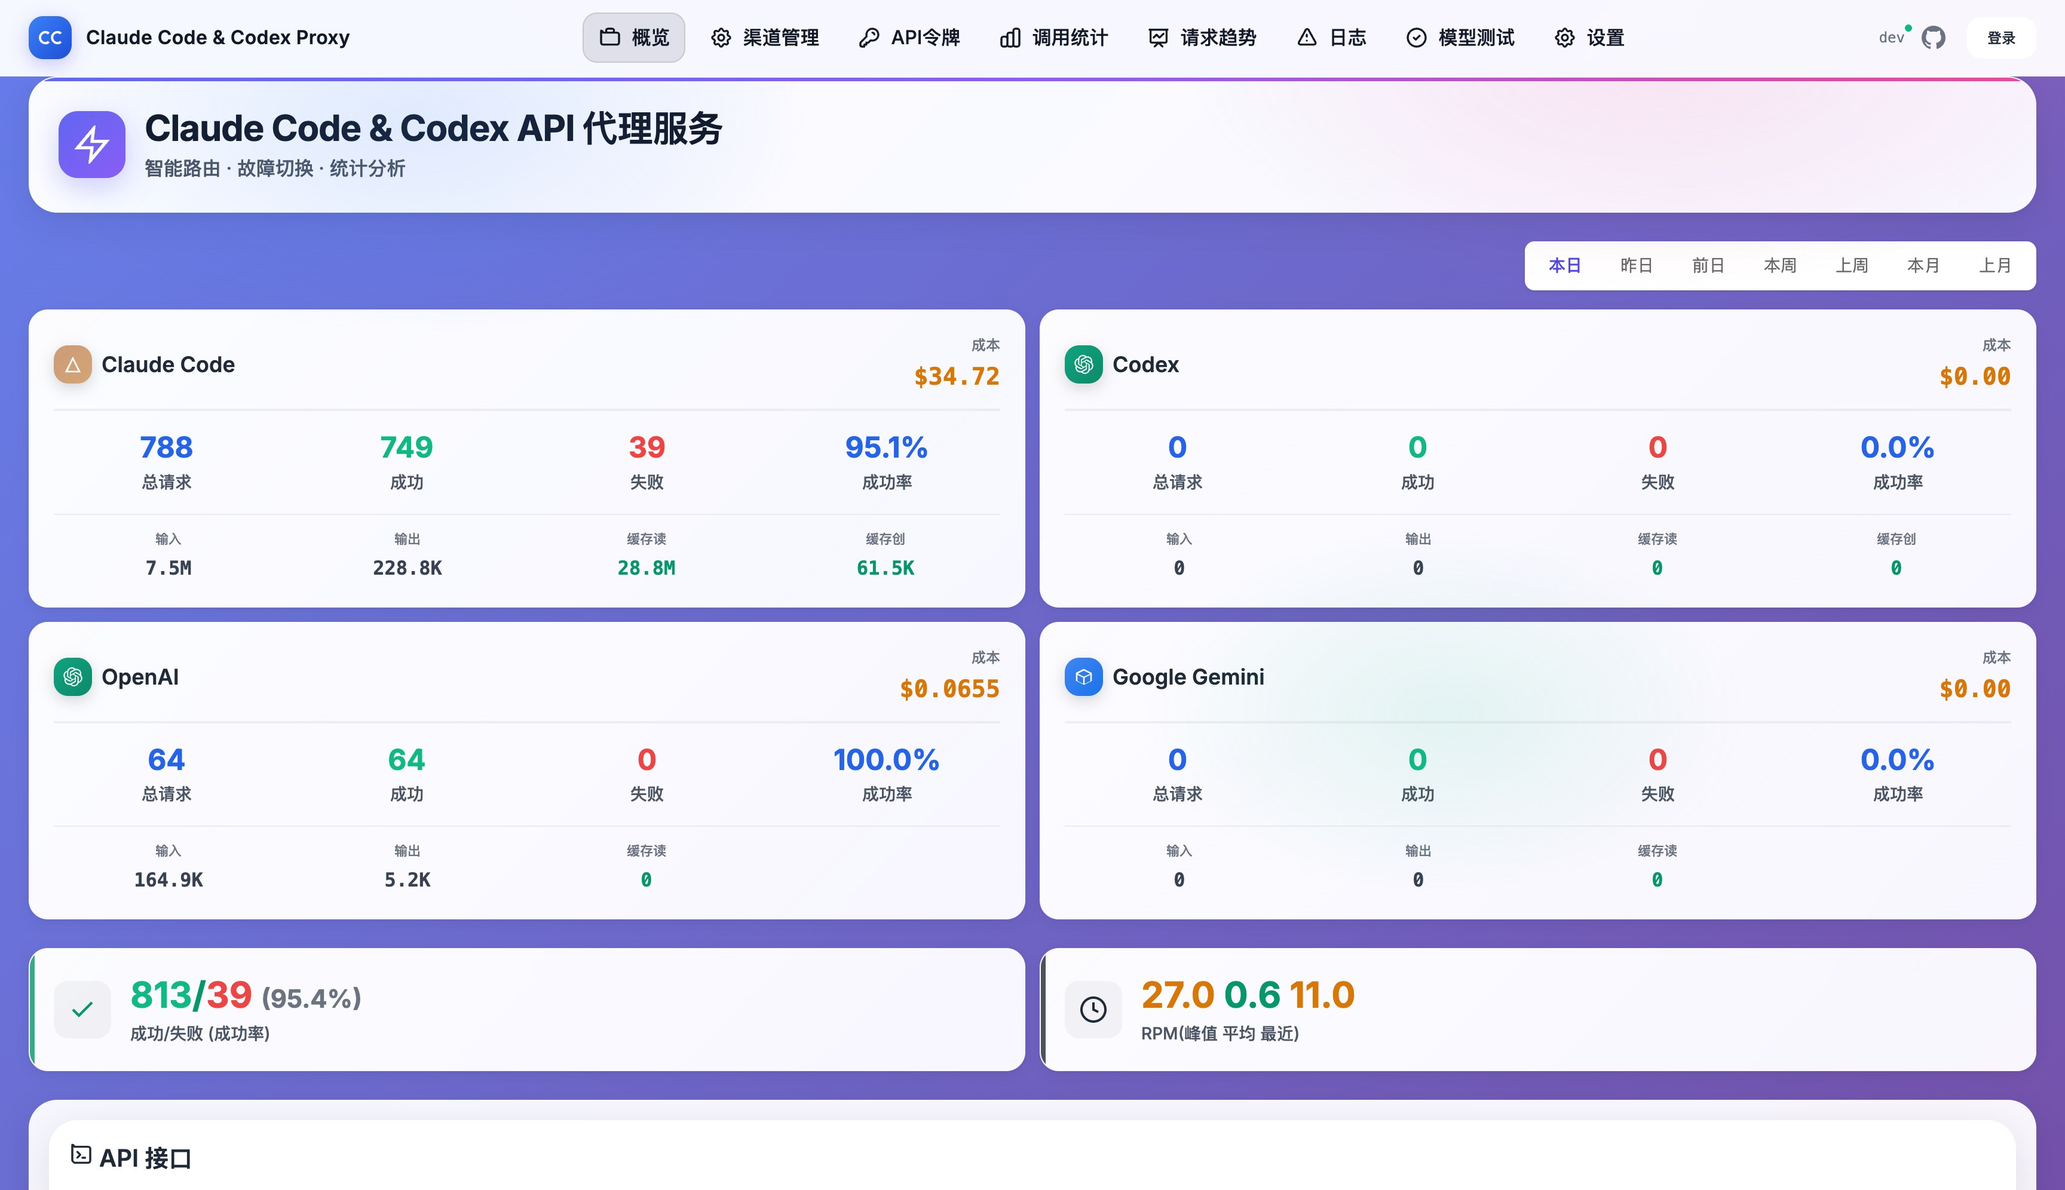
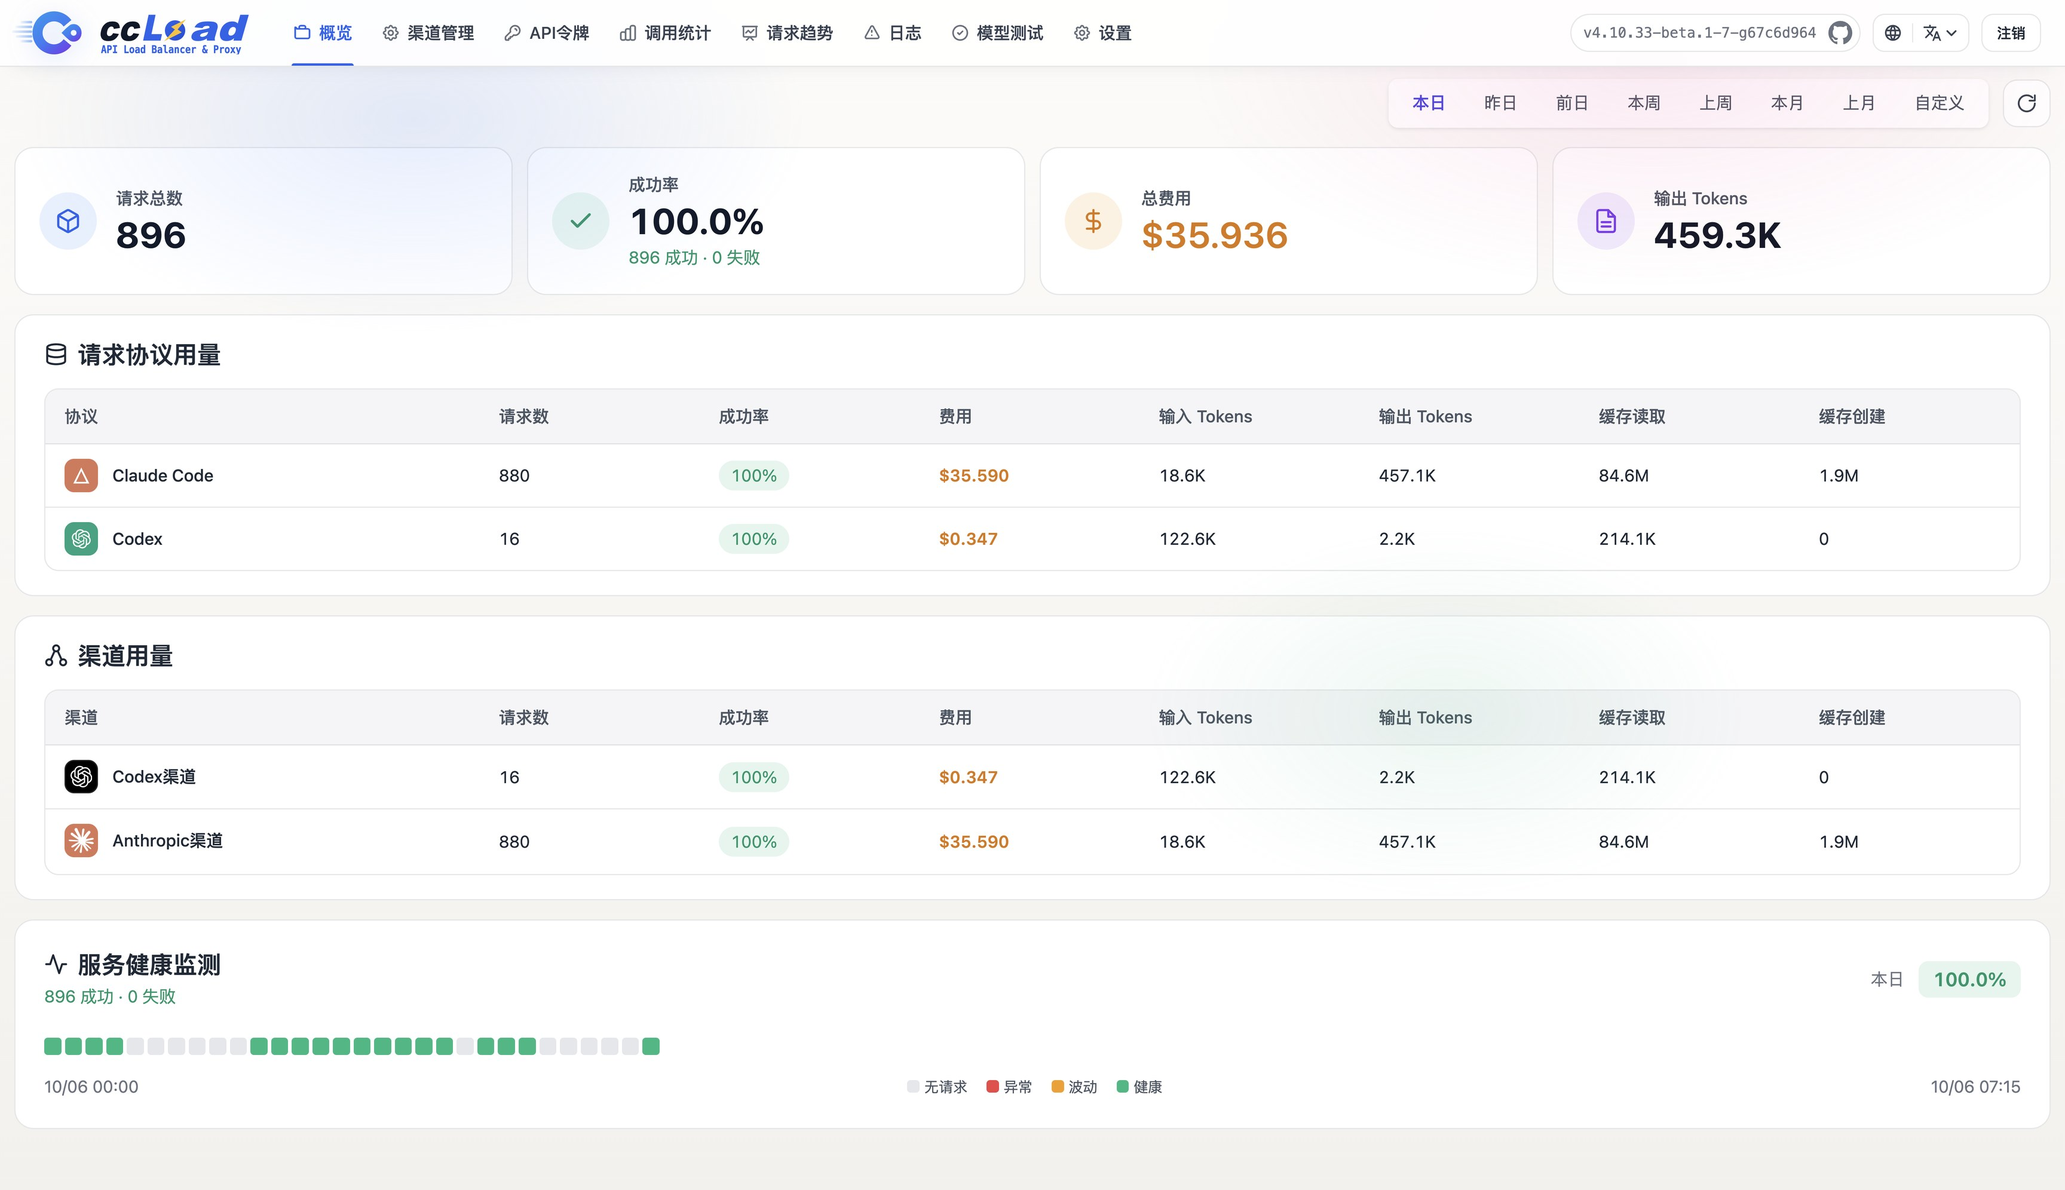
refactor(settings): hide image-managed update settings in containers
Container builds upgrade via image tags, so the admin settings list and
GET now omit auto_update_interval_hours/auto_update_channel (writes still
409). This removes the editable/disabled_reason view fields, the container
notice, and the frontend disabled-state plumbing that only served them.
Also sync www copies of the refreshed README screenshots.

diff --git a/web/assets/js/settings.js b/web/assets/js/settings.js
@@ -40,7 +40,6 @@ function projectCustomPricingDefaults(pricing) {
   return projected;
 }
 
-const containerImageManagedDisabledReason = 'container_image_managed';
 const advancedSettingKeys = new Set([
   'typesafe_enabled', 'typesafe_api_key', 'api_token_login_enabled', 'api_token_show_channels',
   'auto_update_interval_hours', 'auto_update_channel',
@@ -1686,11 +1685,6 @@ function renderSettings(settings) {
     if (!isModalSettingKey(s.key)) continue;
     const target = document.getElementById(s.key);
     if (target) target.value = displayValue;
-    const buttonID = s.key === modelMultimodalFallbackSettingKey
-      ? 'model-multimodal-fallback-btn'
-      : 'model-custom-pricing-btn';
-    const button = document.getElementById(buttonID);
-    if (button) button.disabled = s.editable === false;
     if (s.key === modelMultimodalFallbackSettingKey) updateMultimodalFallbackSummary(displayValue);
     else updateCustomPricingSummary(displayValue);
   }
@@ -1703,8 +1697,7 @@ function renderSettings(settings) {
   for (const g of groups) {
     const groupRow = TemplateEngine.render('tpl-setting-group-row', {
       groupId: g.id,
-      groupName: g.name,
-      groupNoticeHtml: ''
+      groupName: g.name
     });
     if (groupRow) tbody.appendChild(groupRow);
 
@@ -1717,8 +1710,7 @@ function renderSettings(settings) {
       const row = TemplateEngine.render('tpl-setting-row', {
         key: s.key,
         description: description,
-        inputHtml: renderInput({ ...s, value: displayValue }) + (s.key === 'auto_update_channel' ? renderSettingGroupNotice(g) : ''),
-        resetDisabledAttributes: settingDisabledAttributes(s),
+        inputHtml: renderInput({ ...s, value: displayValue }),
         mobileLabelDescription: t('settings.configItem'),
         mobileLabelValue: t('settings.currentValue'),
         mobileLabelActions: t('common.actions')
@@ -1726,28 +1718,6 @@ function renderSettings(settings) {
       if (row) tbody.appendChild(row);
     }
   }
-}
-
-function renderSettingGroupNotice(group) {
-  const containerManaged = group.settings.some((setting) => (
-    setting.editable === false && setting.disabled_reason === containerImageManagedDisabledReason
-  ));
-  if (!containerManaged) return '';
-
-  return `
-    <div class="settings-group-notice" role="note">
-      <p data-i18n="settings.update.containerManaged">${escapeHtml(t('settings.update.containerManaged'))}</p>
-      <ul>
-        <li><span data-i18n="settings.update.stableImage">${escapeHtml(t('settings.update.stableImage'))}</span>: <code>ghcr.io/caidaoli/ccload:latest</code></li>
-        <li><span data-i18n="settings.update.betaImage">${escapeHtml(t('settings.update.betaImage'))}</span>: <code>ghcr.io/caidaoli/ccload:beta</code></li>
-      </ul>
-      <p data-i18n="settings.update.applyImage">${escapeHtml(t('settings.update.applyImage'))}</p>
-      <code class="settings-group-notice-command">docker compose pull &amp;&amp; docker compose up -d</code>
-    </div>`;
-}
-
-function settingDisabledAttributes(setting) {
-  return setting.editable === false ? 'disabled' : '';
 }
 
 // 初始化事件委托（替代 inline onclick）
@@ -1837,7 +1807,6 @@ function renderInput(setting) {
   const placeholder = oauthBaseURLPlaceholders.get(setting.key);
   const placeholderAttribute = placeholder ? `placeholder="${escapeHtml(placeholder)}"` : '';
   const wideTextInput = setting.key === 'channel_test_content' || oauthBaseURLPlaceholders.has(setting.key);
-  const disabledAttributes = settingDisabledAttributes(setting);
   const numericAttributes = numericInputAttributes(setting);
 
   if (setting.key === globalCooldownRulesSettingKey) {
@@ -1845,7 +1814,7 @@ function renderInput(setting) {
     return `
       <div class="global-cooldown-rules-control">
         <input type="hidden" id="${safeKey}" value="${safeValue}">
-        <button type="button" class="btn btn-secondary" data-action="edit-global-cooldown-rules" data-i18n="settings.globalCooldownRules.edit" ${disabledAttributes}>
+        <button type="button" class="btn btn-secondary" data-action="edit-global-cooldown-rules" data-i18n="settings.globalCooldownRules.edit">
           ${escapeHtml(t('settings.globalCooldownRules.edit'))}
         </button>
         <span id="global-cooldown-rules-summary" class="global-cooldown-rules-summary">
@@ -1857,8 +1826,8 @@ function renderInput(setting) {
   if (setting.key === 'TypeSafe_api_key') {
     const hint = t(setting.configured ? 'settings.secretConfigured' : 'settings.secretUnconfigured');
     return `<div class="settings-typesafe-control">
-      <input type="text" id="${safeKey}" value="" autocomplete="off" spellcheck="false" placeholder="${escapeHtml(hint)}" aria-label="TypeSafe API Key" class="settings-input settings-input--text" ${disabledAttributes}>
-      <button type="button" class="btn btn-secondary" data-action="test-typesafe" title="${escapeHtml(t('settings.typeSafeTest.hint'))}" ${disabledAttributes}>${escapeHtml(t('settings.typeSafeTest.test'))}</button>
+      <input type="text" id="${safeKey}" value="" autocomplete="off" spellcheck="false" placeholder="${escapeHtml(hint)}" aria-label="TypeSafe API Key" class="settings-input settings-input--text">
+      <button type="button" class="btn btn-secondary" data-action="test-typesafe" title="${escapeHtml(t('settings.typeSafeTest.hint'))}">${escapeHtml(t('settings.typeSafeTest.test'))}</button>
     </div>`;
   }
 
@@ -1868,11 +1837,11 @@ function renderInput(setting) {
       `<option value="${value}" data-i18n="${labelKey}" ${setting.value === value ? 'selected' : ''}>${escapeHtml(t(labelKey))}</option>`
     )).join('');
     const selectHtml = `
-      <select id="${safeKey}" class="settings-input settings-input--select" ${disabledAttributes}>
+      <select id="${safeKey}" class="settings-input settings-input--select">
         ${optionsHtml}
       </select>`;
-    // 更新渠道旁提供手动检测按钮；容器模式（editable=false）不渲染、后端同样拒绝。
-    if (setting.key === 'auto_update_channel' && setting.editable !== false) {
+    // 更新渠道旁提供手动检测按钮（容器版后端不返回该配置项）。
+    if (setting.key === 'auto_update_channel') {
       return `
         <div class="settings-update-channel-control">
           ${selectHtml}
@@ -1885,7 +1854,7 @@ function renderInput(setting) {
   }
 
   if (byteSettingKeys.has(setting.key)) {
-    return `<input type="number" id="${safeKey}" value="${safeValue}" class="settings-input settings-input--number" ${numericAttributes} ${disabledAttributes}>`;
+    return `<input type="number" id="${safeKey}" value="${safeValue}" class="settings-input settings-input--number" ${numericAttributes}>`;
   }
 
   switch (setting.value_type) {
@@ -1894,19 +1863,19 @@ function renderInput(setting) {
       return `
         <div class="settings-bool-group">
           <label class="settings-bool-option">
-            <input type="radio" name="${safeKey}" value="true" ${isTrue ? 'checked' : ''} ${disabledAttributes}> <span data-i18n="common.enable">${t('common.enable')}</span>
+            <input type="radio" name="${safeKey}" value="true" ${isTrue ? 'checked' : ''}> <span data-i18n="common.enable">${t('common.enable')}</span>
           </label>
           <label class="settings-bool-option">
-            <input type="radio" name="${safeKey}" value="false" ${!isTrue ? 'checked' : ''} ${disabledAttributes}> <span data-i18n="common.disable">${t('common.disable')}</span>
+            <input type="radio" name="${safeKey}" value="false" ${!isTrue ? 'checked' : ''}> <span data-i18n="common.disable">${t('common.disable')}</span>
           </label>
         </div>`;
     case 'int':
     case 'duration':
-      return `<input type="number" id="${safeKey}" value="${safeValue}" class="settings-input settings-input--number" ${numericAttributes} ${disabledAttributes}>`;
+      return `<input type="number" id="${safeKey}" value="${safeValue}" class="settings-input settings-input--number" ${numericAttributes}>`;
     case 'float':
-      return `<input type="number" id="${safeKey}" value="${safeValue}" class="settings-input settings-input--number" ${numericAttributes} ${disabledAttributes}>`;
+      return `<input type="number" id="${safeKey}" value="${safeValue}" class="settings-input settings-input--number" ${numericAttributes}>`;
     default:
-      return `<input type="text" id="${safeKey}" value="${safeValue}" ${placeholderAttribute} class="settings-input settings-input--text${wideTextInput ? ' settings-input--wide' : ''}" ${disabledAttributes}>`;
+      return `<input type="text" id="${safeKey}" value="${safeValue}" ${placeholderAttribute} class="settings-input settings-input--text${wideTextInput ? ' settings-input--wide' : ''}">`;
   }
 }
 

diff --git a/web/assets/js/settings.test.js b/web/assets/js/settings.test.js
@@ -920,37 +920,6 @@ test('手动检测更新失败时恢复按钮并显示错误', async (t) => {
   assert.equal(page.updateButton.getAttribute('aria-busy'), null);
 });
 
-test('容器内禁用更新设置并显示镜像切换说明', async (t) => {
-  const page = await loadSettingsPage(t, [
-    {
-      key: 'auto_update_channel',
-      value: 'stable',
-      value_type: 'string',
-      description: '',
-      editable: false,
-      disabled_reason: 'container_image_managed'
-    },
-    {
-      key: 'auto_update_interval_hours',
-      value: '12',
-      value_type: 'int',
-      description: '',
-      editable: false,
-      disabled_reason: 'container_image_managed'
-    }
-  ], {});
-
-  const settingRows = page.renderCalls.filter(({ template }) => template === 'tpl-setting-row');
-  assert.equal(settingRows.length, 2);
-  for (const { data } of settingRows) {
-    assert.match(data.inputHtml, /\bdisabled\b/);
-    assert.equal(data.resetDisabledAttributes, 'disabled');
-  }
-  const channelRow = settingRows.find(({ data }) => data.key === 'auto_update_channel');
-  assert.ok(channelRow);
-  assert.doesNotMatch(channelRow.data.inputHtml, /data-action="check-for-updates"/);
-});
-
 test('TypeSafe secret is omitted unless changed and explicit reset disables the service', async (t) => {
   const page = await loadSettingsPage(t, [
     { key: 'TypeSafe_api_key', value: '', default_value: '', value_type: 'string', configured: true },

diff --git a/web/settings.html b/web/settings.html
@@ -235,7 +235,7 @@
       <td class="setting-col-description" data-mobile-label="{{mobileLabelDescription}}">{{description}}</td>
       <td class="setting-col-value" data-mobile-label="{{mobileLabelValue}}">{{{inputHtml}}}</td>
       <td class="setting-col-actions" data-mobile-label="{{mobileLabelActions}}">
-        <button type="button" class="btn-icon setting-reset-btn" data-key="{{key}}" data-i18n-title="settings.resetToDefault" data-i18n-aria-label="settings.resetToDefault" title="重置为默认值" aria-label="恢复默认值" {{{resetDisabledAttributes}}}>
+        <button type="button" class="btn-icon setting-reset-btn" data-key="{{key}}" data-i18n-title="settings.resetToDefault" data-i18n-aria-label="settings.resetToDefault" title="重置为默认值" aria-label="恢复默认值">
           <svg width="14" height="14" viewBox="0 0 24 24" fill="none" stroke="currentColor" stroke-width="2">
             <path d="M3 12a9 9 0 1 0 9-9 9.75 9.75 0 0 0-6.74 2.74L3 8"/>
             <path d="M3 3v5h5"/>
@@ -250,7 +250,6 @@
     <tr class="setting-group-row" id="settings-group-{{groupId}}" data-group="{{groupId}}">
       <td colspan="3" class="setting-group-cell">
         <span class="setting-group-title">{{groupName}}</span>
-        {{{groupNoticeHtml}}}
       </td>
     </tr>
   </template>

diff --git a/web/assets/locales/en.js b/web/assets/locales/en.js
@@ -1443,10 +1443,6 @@ window.I18N_LOCALES['en'] = {
   'settings.updateCheck.pendingRestart': 'Version {version} is ready and will restart when no requests are active',
   'settings.updateCheck.upToDate': 'Already up to date ({version})',
   'settings.updateCheck.failed': 'Failed to check for updates',
-  'settings.update.containerManaged': 'Container images do not support in-process updates. Switch versions with image tags.',
-  'settings.update.stableImage': 'Stable image',
-  'settings.update.betaImage': 'Beta image',
-  'settings.update.applyImage': 'After changing the image tag in Compose, pull and recreate the container:',
   'settings.desc.channel_stats_range': 'Time range for cost statistics on the Channels page',
   'settings.logChannelClickAction.edit': 'Open channel editor',
   'settings.logChannelClickAction.navigate': 'Go to channel management',

diff --git a/web/assets/locales/zh-CN.js b/web/assets/locales/zh-CN.js
@@ -1443,10 +1443,6 @@ window.I18N_LOCALES['zh-CN'] = {
   'settings.updateCheck.pendingRestart': '版本 {version} 已就绪，等待无活动请求后自动重启',
   'settings.updateCheck.upToDate': '当前已是最新版本（{version}）',
   'settings.updateCheck.failed': '检测更新失败',
-  'settings.update.containerManaged': '容器镜像不支持进程内更新，请通过镜像标签切换版本。',
-  'settings.update.stableImage': '稳定版镜像',
-  'settings.update.betaImage': 'Beta 镜像',
-  'settings.update.applyImage': '修改 Compose 中的镜像标签后，重新拉取并启动容器：',
   'settings.desc.channel_stats_range': '渠道管理页费用统计的时间范围',
   'settings.logChannelClickAction.edit': '打开渠道编辑器',
   'settings.logChannelClickAction.navigate': '跳转到渠道管理',

diff --git a/web/assets/css/styles.css b/web/assets/css/styles.css
@@ -4813,30 +4813,6 @@ body {
   display: block;
 }
 
-.settings-group-notice {
-  display: grid;
-  gap: 6px;
-  margin-top: 8px;
-  color: var(--neutral-700);
-  font-weight: 400;
-  letter-spacing: normal;
-}
-
-.settings-group-notice p,
-.settings-group-notice ul {
-  margin: 0;
-}
-
-.settings-group-notice ul {
-  padding-inline-start: 20px;
-}
-
-.settings-group-notice-command {
-  width: fit-content;
-  max-width: 100%;
-  overflow-wrap: anywhere;
-}
-
 .settings-input:disabled,
 .settings-bool-option input:disabled {
   cursor: not-allowed;

diff --git a/internal/app/admin_settings_handler_test.go b/internal/app/admin_settings_handler_test.go
@@ -6,6 +6,7 @@ import (
 	"io"
 	"net/http"
 	"net/http/httptest"
+	"slices"
 	"strconv"
 	"strings"
 	"sync"
@@ -72,18 +73,7 @@ func TestServerRestartFuncIsConcurrentAndInstanceScoped(t *testing.T) {
 	}
 }
 
-func findAdminSetting(t *testing.T, settings []map[string]any, key string) map[string]any {
-	t.Helper()
-	for _, setting := range settings {
-		if setting["key"] == key {
-			return setting
-		}
-	}
-	t.Fatalf("setting %q not found", key)
-	return nil
-}
-
-func TestAdminContainerUpdateSettingsDisabled(t *testing.T) {
+func TestAdminContainerUpdateSettingsHidden(t *testing.T) {
 	t.Setenv("CCLOAD_CONTAINER", "1")
 
 	server, store, cleanup := setupAdminTestServer(t)
@@ -93,10 +83,9 @@ func TestAdminContainerUpdateSettingsDisabled(t *testing.T) {
 		t.Fatalf("LoadDefaults failed: %v", err)
 	}
 
-	const disabledReason = "container_image_managed"
 	updateKeys := []string{autoUpdateIntervalSettingKey, autoUpdateChannelSettingKey}
 
-	t.Run("list and get expose disabled state", func(t *testing.T) {
+	t.Run("list and get hide container-managed settings", func(t *testing.T) {
 		c, w := newTestContext(t, newRequest(http.MethodGet, "/admin/settings", nil))
 		server.AdminListSettings(c)
 
@@ -105,24 +94,18 @@ func TestAdminContainerUpdateSettingsDisabled(t *testing.T) {
 		}
 
 		resp := mustParseAPIResponse[[]map[string]any](t, w.Body.Bytes())
-		for _, key := range updateKeys {
-			setting := findAdminSetting(t, resp.Data, key)
-			if editable, ok := setting["editable"].(bool); !ok || editable {
-				t.Fatalf("setting %q editable=%v, want false", key, setting["editable"])
+		for _, setting := range resp.Data {
+			if slices.Contains(updateKeys, setting["key"].(string)) {
+				t.Fatalf("list exposes container-managed setting %v", setting["key"])
 			}
-			if reason := setting["disabled_reason"]; reason != disabledReason {
-				t.Fatalf("setting %q disabled_reason=%v, want %q", key, reason, disabledReason)
-			}
+		}
 
+		for _, key := range updateKeys {
 			c, w = newTestContext(t, newRequest(http.MethodGet, "/admin/settings/"+key, nil))
 			c.Params = gin.Params{{Key: "key", Value: key}}
 			server.AdminGetSetting(c)
-			if w.Code != http.StatusOK {
-				t.Fatalf("get %q status=%d, want %d body=%s", key, w.Code, http.StatusOK, w.Body.String())
-			}
-			view := mustParseAPIResponse[map[string]any](t, w.Body.Bytes()).Data
-			if view["editable"] != false || view["disabled_reason"] != disabledReason {
-				t.Fatalf("get %q view=%v, want disabled container view", key, view)
+			if w.Code != http.StatusNotFound {
+				t.Fatalf("get %q status=%d, want %d body=%s", key, w.Code, http.StatusNotFound, w.Body.String())
 			}
 		}
 	})

diff --git a/internal/app/admin_settings.go b/internal/app/admin_settings.go
@@ -40,13 +40,10 @@ var errInvalidSettingCombination = errors.New("invalid setting combination")
 
 type adminSystemSetting struct {
 	*model.SystemSetting
-	Configured     *bool  `json:"configured,omitempty"`
-	Editable       bool   `json:"editable"`
-	DisabledReason string `json:"disabled_reason,omitempty"`
+	Configured *bool `json:"configured,omitempty"`
 }
 
-const containerImageManagedDisabledReason = "container_image_managed"
-
+// 容器版由镜像标签管理升级，更新配置项既不展示也不可写。
 func isContainerManagedUpdateSetting(key string) bool {
 	if !runningInContainer() {
 		return false
@@ -58,17 +55,12 @@ func systemSettingForAdmin(setting *model.SystemSetting) adminSystemSetting {
 	copySetting := *setting
 	view := adminSystemSetting{
 		SystemSetting: &copySetting,
-		Editable:      true,
 	}
 	if setting.Key == config.TypeSafeAPIKeySettingKey {
 		configured := setting.Value != ""
 		view.Configured = &configured
 		copySetting.Value = ""
 		copySetting.DefaultValue = ""
-	}
-	if isContainerManagedUpdateSetting(setting.Key) {
-		view.Editable = false
-		view.DisabledReason = containerImageManagedDisabledReason
 	}
 	return view
 }
@@ -239,6 +231,9 @@ func (s *Server) AdminListSettings(c *gin.Context) {
 	}
 	views := make([]adminSystemSetting, 0, len(settings))
 	for _, setting := range settings {
+		if isContainerManagedUpdateSetting(setting.Key) {
+			continue
+		}
 		views = append(views, systemSettingForAdmin(setting))
 	}
 	RespondJSON(c, http.StatusOK, views)
@@ -255,7 +250,7 @@ func (s *Server) AdminGetSetting(c *gin.Context) {
 
 	// 管理接口必须返回持久化后的最新值，不能复用等待重启的运行时缓存。
 	setting, err := s.configService.GetSettingFresh(c.Request.Context(), key)
-	if errors.Is(err, model.ErrSettingNotFound) {
+	if errors.Is(err, model.ErrSettingNotFound) || isContainerManagedUpdateSetting(key) {
 		RespondErrorMsg(c, http.StatusNotFound, fmt.Sprintf("setting not found: %s", key))
 		return
 	}
